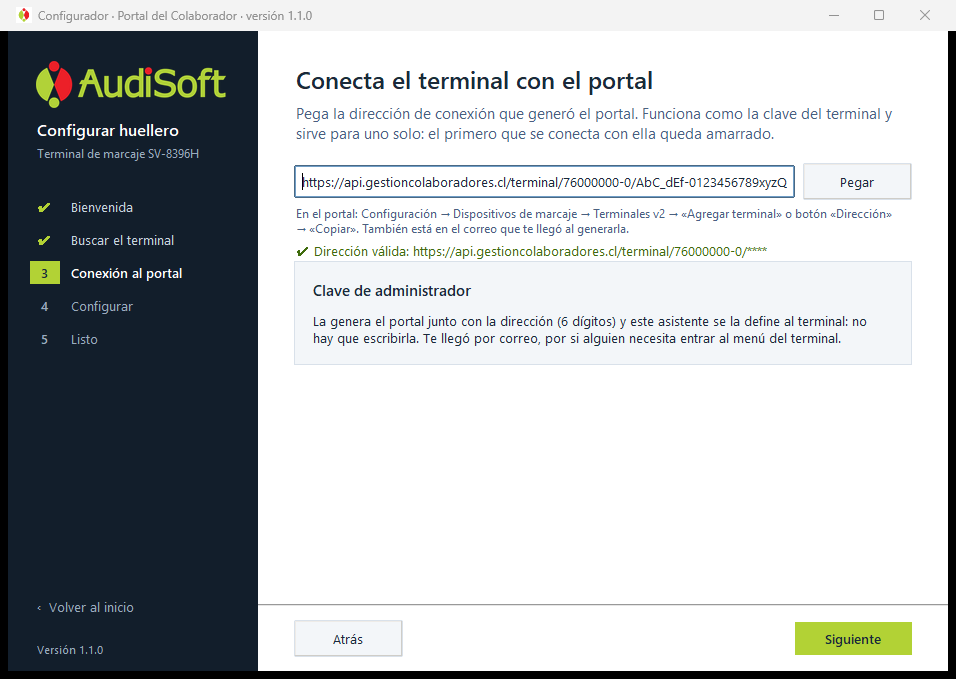
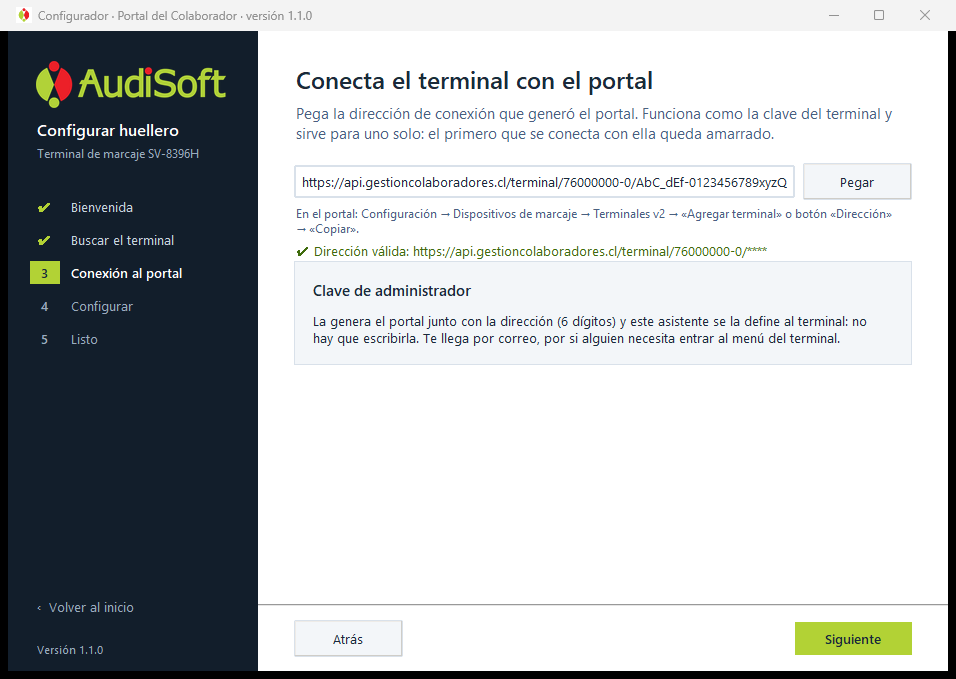
README: por correo llega solo la clave; la dirección se copia desde el portal

Changed region(s): [[0.4854, 0.4948, 0.8797, 0.5258], [0.3944, 0.3093, 0.6674, 0.3402], [0.3033, 0.2784, 0.3337, 0.3093]]

diff --git a/README.md b/README.md
@@ -32,7 +32,7 @@ flowchart LR
 | El terminal enchufado a la corriente | Que encienda (tarda cerca de un minuto). |
 | Nombre y clave del Wi-Fi donde quedará instalado | El terminal se conecta a esa red. |
 | Un computador con Windows **en ese mismo Wi-Fi** | Desde ahí se usa el configurador. |
-| La **dirección de conexión** del terminal | Se genera en el portal al agregarlo (ver Parte 0). También llega por correo. |
+| La **dirección de conexión** del terminal | Se genera en el portal al agregarlo (ver Parte 0) y se copia desde ahí. |
 
 > La red tiene que tener **salida a internet**: el terminal habla directo con el portal.
 
@@ -44,13 +44,14 @@ En el portal: **Configuración → Dispositivos de marcaje → Terminales v2 →
 «Agregar terminal»**. Ponerle un nombre (se muestra en el equipo) y elegir la
 sucursal (el terminal recibe a las personas de esa sucursal).
 
-Al agregarlo, el portal muestra dos cosas y las manda **por correo** a quien
-lo agregó:
+Al agregarlo, el portal muestra dos cosas. A quien lo agregó le llega **por
+correo solo la clave**; la dirección se copia desde el portal (no viaja por
+correo):
 
 | Qué | Para qué |
 |---|---|
-| **Dirección de conexión** (`https://…/terminal/…`) | Se pega en el configurador (paso 2.4). Funciona como la clave del terminal. |
-| **Clave de administrador del terminal** (6 dígitos) | **No hay que escribirla en ninguna parte**: el configurador se la define sola al terminal. Sirve para entrar al menú del terminal, así que conviene guardarla. |
+| **Dirección de conexión** (`https://…/terminal/…`) | Copiarla al tiro: se muestra una sola vez. Se pega en el configurador (paso 2.4) y funciona como la clave del terminal. |
+| **Clave de administrador del terminal** (6 dígitos, también por correo) | **No hay que escribirla en ninguna parte**: se le carga sola al terminal cuando se conecta. Sirve para entrar al menú del terminal, así que conviene guardarla. |
 
 > **La dirección sirve para un solo terminal.** El primero que se conecta con
 > ella queda amarrado y ningún otro equipo la puede usar. Si se pierde o se
@@ -166,7 +167,7 @@ terminal**. Si Windows muestra «Windows protegió su PC», hacer clic en
 | El configurador no encuentra el terminal | Revisar que el computador y el terminal estén en el **mismo Wi-Fi** (no en la red de invitados) y pulsar **Buscar de nuevo**. La IP que muestra la pantalla del terminal (paso B2 ②) ayuda a confirmar que está en la misma red que el computador. |
 | El terminal aparece **No disponible** | Ya tiene clave de administrador: se configuró antes. Si es el mismo terminal, pegar la dirección con que se conectó (o generar una nueva para ese terminal en el portal). Si es un equipo reutilizado de otro lugar, restablecerlo de fábrica desde su menú y buscarlo de nuevo. |
 | «Esta dirección ya se usó en otro terminal» | Cada dirección sirve para un solo terminal. Agregar este terminal en el portal (Parte 0) o generar una dirección nueva con el botón **«Dirección»**. |
-| «El portal no reconoce esta dirección» | Se generó una dirección más nueva o el terminal se eliminó del portal. Copiar la dirección vigente desde el portal o el correo más reciente. |
+| «El portal no reconoce esta dirección» | Se generó una dirección más nueva o el terminal se eliminó del portal. Generar una dirección nueva en el portal con el botón **«Dirección»** y copiarla. |
 | Termina, pero «el terminal aún no informa conexión» | El Wi-Fi no tiene salida a internet o la bloquea. Probar con otra red. |
 | El portal no muestra el terminal como conectado | Esperar un minuto (se reporta cada 20 segundos) y revisar en **Configuración → Dispositivos de marcaje → Terminales v2**. |
 | Cambió el Wi-Fi del lugar | Repetir solo la **Parte 1 · B** en el terminal. La conexión al portal se mantiene. |
